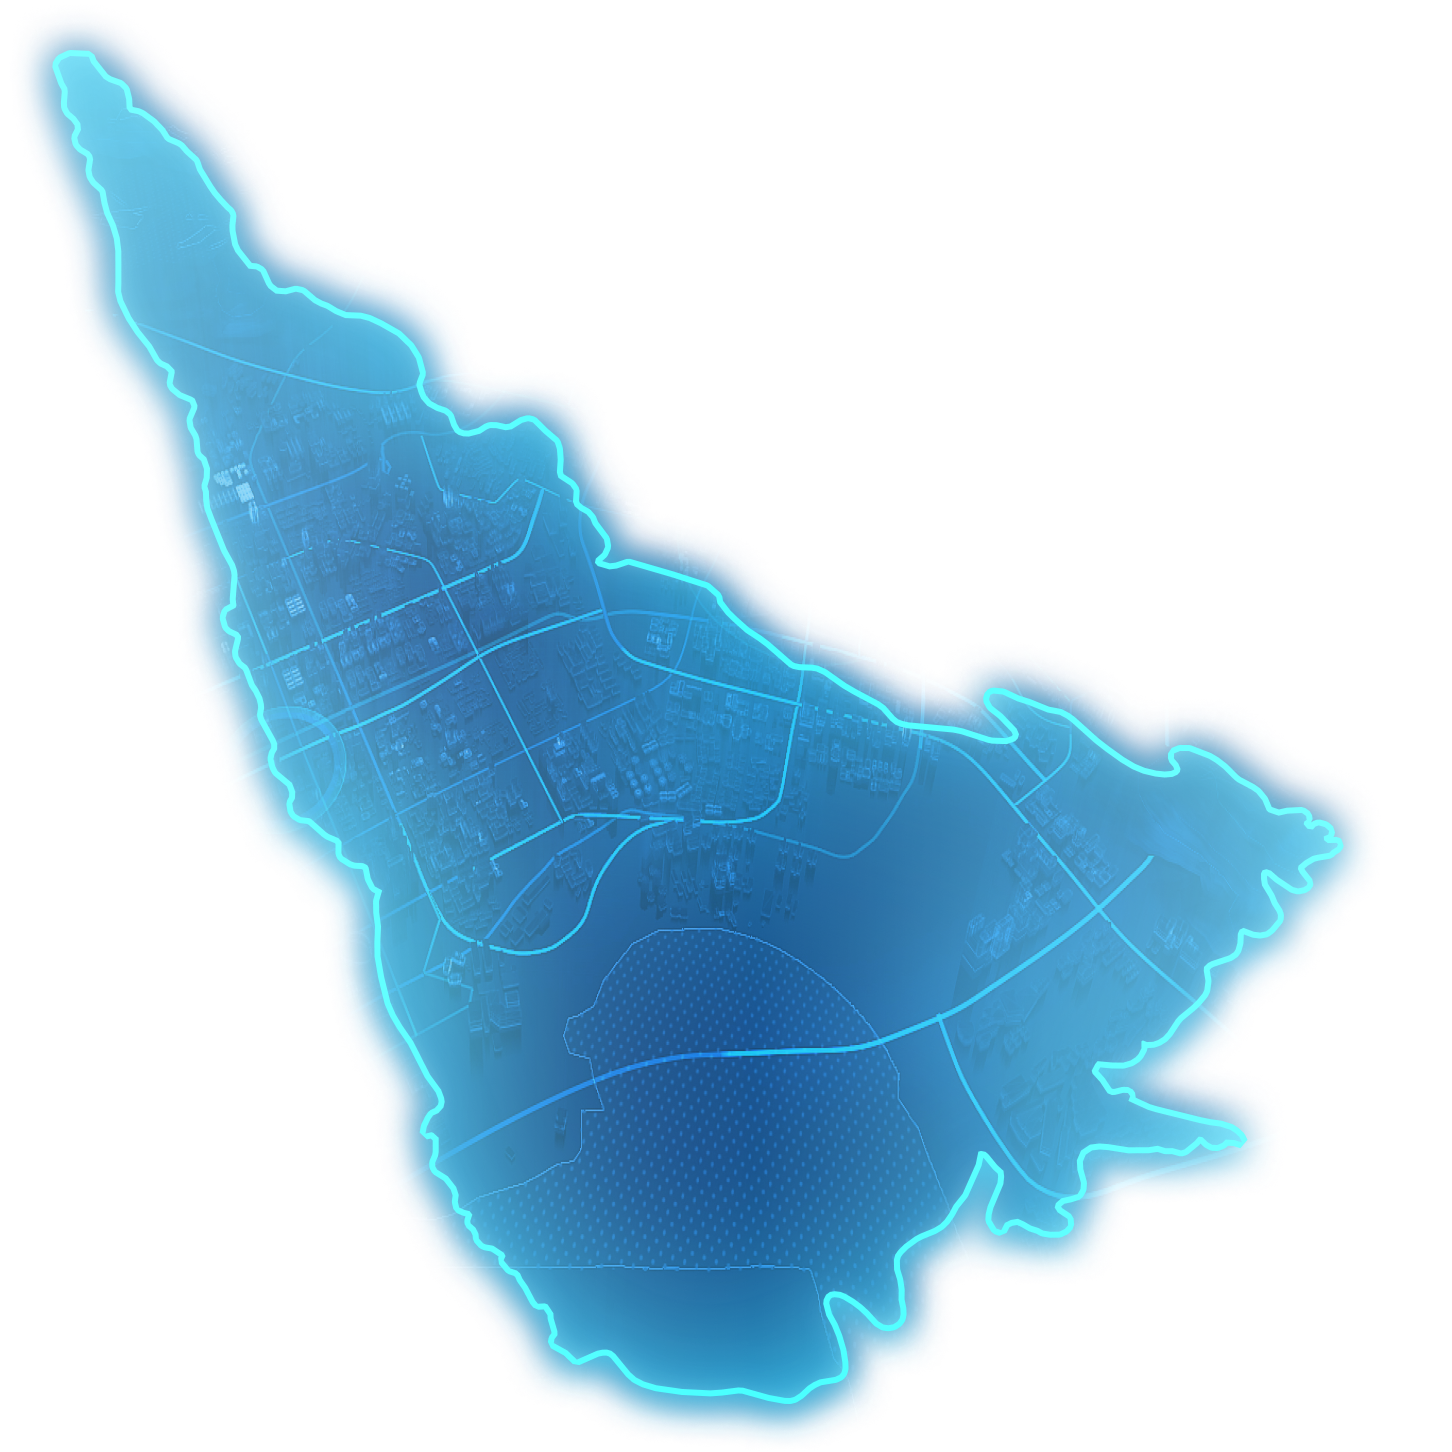
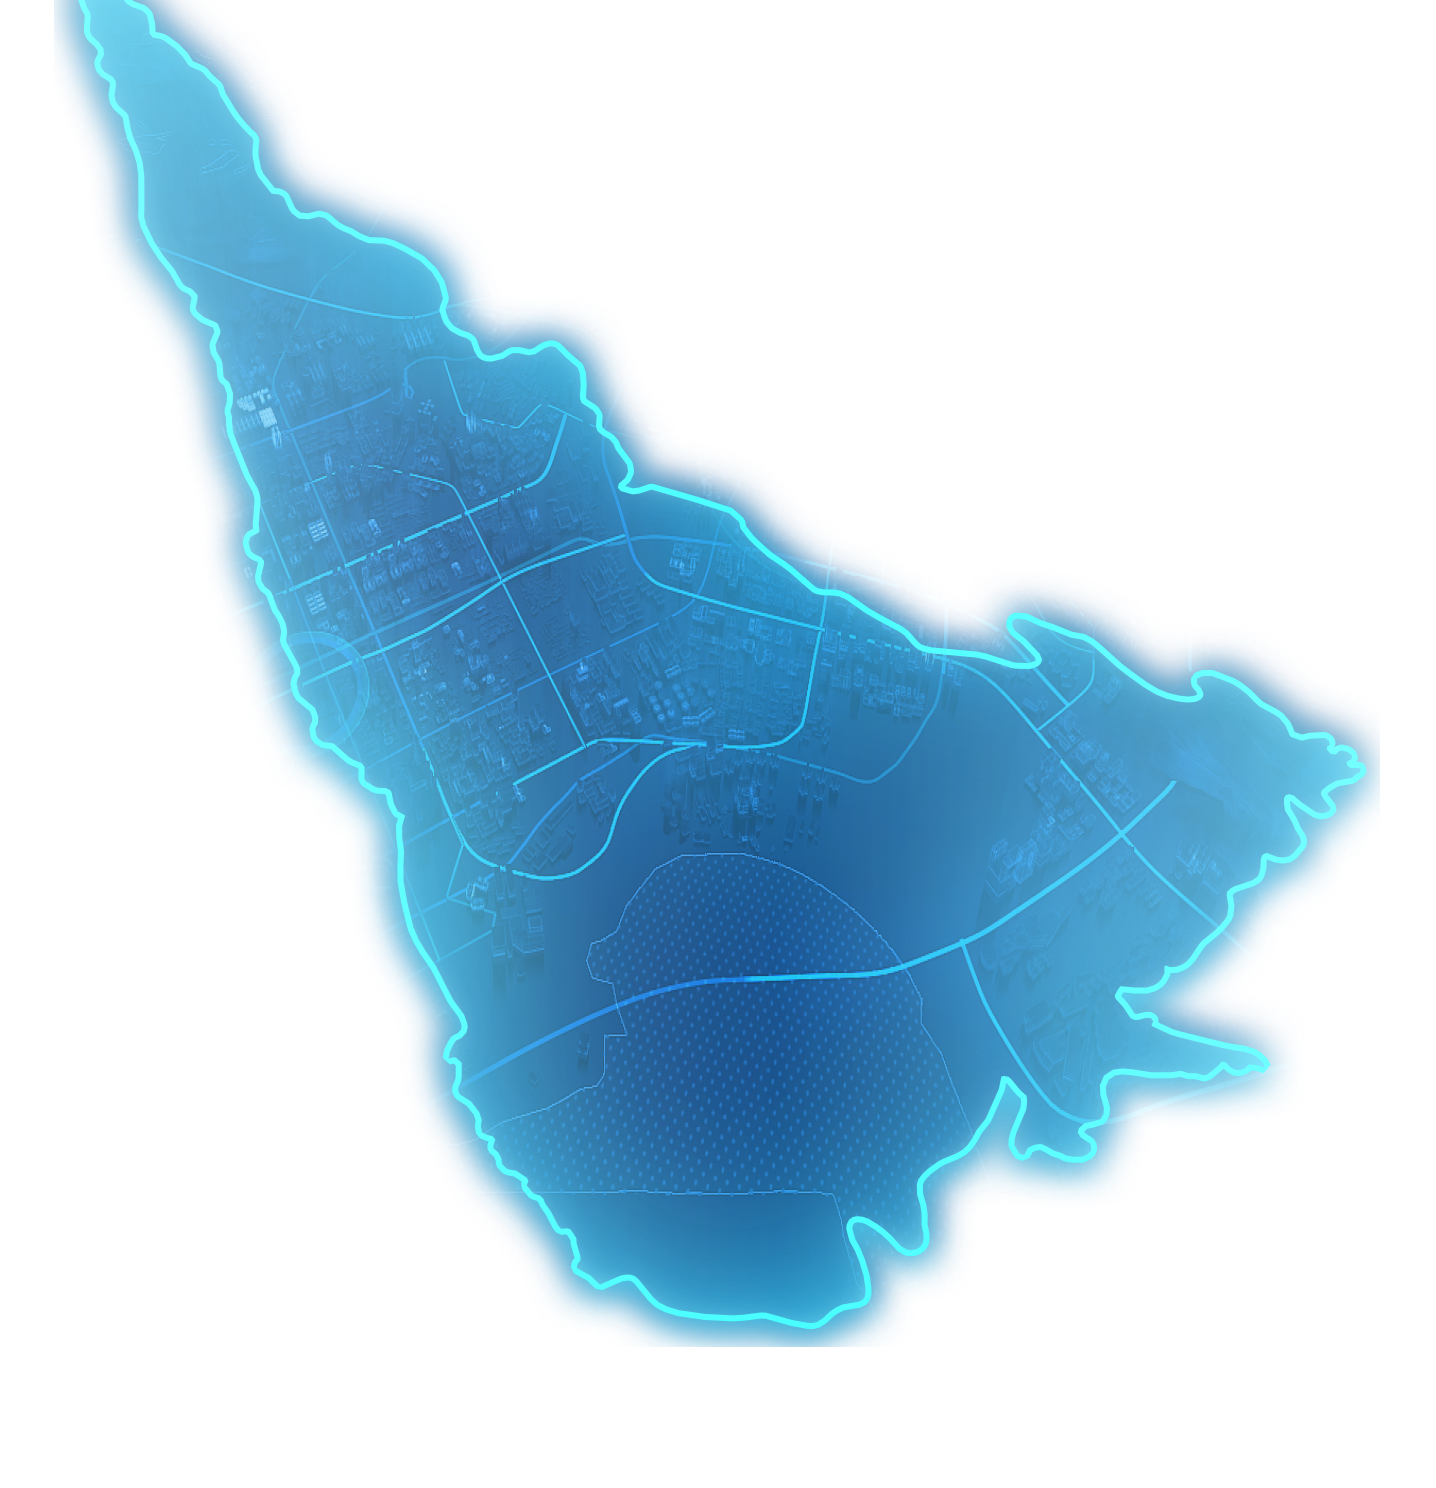
bate.1.0

Changed region(s): [[0.0, 0.0, 0.9805, 0.9917]]

diff --git a/src/components/center_chart.vue b/src/components/center_chart.vue
@@ -4,7 +4,7 @@ import * as echarts from "echarts";
 import mapjson from "../assets/map.json";
 import mapJsonSvg from "../assets/wenjiang.svg";
 import mapsvg from "../assets/mapsvg.svg";
-import graphicsvg from "../assets/graphic.svg";
+import graphicsvg from "../assets/map.png";
 import axios from "axios";
 
 onMounted(() => {
@@ -19,7 +19,7 @@ onMounted(() => {
     const ellipsePath = "M50,50 m-40,0 a40,30 0 1,0 80,0 a40,30 0 1,0 -80,0";
 
     const markerData = [
-      { name: "星河world科创城3", value: [103.836776, 30.697996] },
+      { name: "星河world科创城3", value: [103.695006, 30.887757] },
       { name: "光华公园站", value: [103.87, 30.71] },
       { name: "南熏大道", value: [103.85, 30.69] },
       { name: "天欣驾校西门训练基地", value: [103.91, 30.67] },
@@ -28,6 +28,7 @@ onMounted(() => {
     ];
     let options = {
       geo: {
+        id: "geo",
         map: "wenjiang",
         region: [],
         select: {
@@ -37,14 +38,30 @@ onMounted(() => {
         roam: true,
         itemStyle: {
           normal: {
-            areaColor: "transparent", // 设置默认区域颜色
-            borderColor: "#000", // 设置默认边框颜色
-            borderWidth: 1, // 设置默认边框宽度
+            borderColor: "#00ffff", // 亮蓝色边框
+            borderWidth: 3, // 边框宽度
+            shadowBlur: 20, // 虚影范围
+            shadowColor: "rgba(0, 255, 255, 0.8)", // 蓝色光晕
+            shadowOffsetX: 0,
+            shadowOffsetY: 0,
+            areaColor: {
+              type: "image",
+              image: graphicsvg,
+              repeat: "repeat",
+            },
           },
           emphasis: {
-            areaColor: "transparent", // 设置 hover 区域颜色，与默认颜色相同
-            borderColor: "#000", // 设置 hover 边框颜色，与默认颜色相同
-            borderWidth: 1, // 设置 hover 边框宽度，与默认宽度相同
+            borderColor: "#00ffff", // 亮蓝色边框
+            borderWidth: 3, // 边框宽度
+            shadowBlur: 20, // 虚影范围
+            shadowColor: "rgba(0, 255, 255, 0.8)", // 蓝色光晕
+            shadowOffsetX: 0,
+            shadowOffsetY: 0,
+            areaColor: {
+              type: "image",
+              image: graphicsvg,
+              repeat: "repeat",
+            },
           },
         },
         label: {
@@ -59,24 +76,6 @@ onMounted(() => {
       tooltip: {
         show: false,
       },
-      graphic: [
-        {
-          scale: [0.9, 0.9],
-          type: "image",
-          id: "img1",
-          style: {
-            image: graphicsvg,
-            width: 740,
-            height: 740,
-          },
-          rotation: -0,
-          origin: [370, 370],
-          // 用 geo 坐标定位
-          // position: [90, 0], // 初始位置，必须设为 [0,0]，否则 geoCoord 不生效
-          // position: [0, 0], // ✅ 必须显式设为 [0, 0]
-          geoCoord: [103.836776, 30.697996], // 你自己替换成你想放的位置
-        },
-      ],
       series: [
         //=====1.静态椭圆形黄点=====
         {
@@ -187,21 +186,6 @@ onMounted(() => {
     setTimeout(() => {
       setDefaultHighlight();
       createCustomTooltips();
-      const pixel = myChart.convertToPixel({ geoIndex: 0 }, [103.836776, 30.697996]);
-      const zoom = myChart.getModel().getComponent("geo").get("zoom");
-      initPixel = [320 / pixel[0], 500 / pixel[1]];
-      let new_pixel = [
-        pixel[0] - pixel[0] * initPixel[0],
-        pixel[1] - pixel[1] * initPixel[1],
-      ];
-      console.log(new_pixel);
-      myChart.setOption({
-        graphic: {
-          id: "img1",
-          position: new_pixel,
-          scale: [zoom * 0.9, zoom * 0.9],
-        },
-      });
     }, 0);
 
     // 鼠标交互
@@ -226,26 +210,10 @@ onMounted(() => {
         createCustomTooltips();
       }
     });
-
     // 地图缩放或拖动时更新 tooltip 位置
-    myChart.on("georoam", () => {
+    myChart.on("georoam", (e) => {
       clearAllHighlight();
       createCustomTooltips();
-      let geo = myChart.getModel().getComponent("geo");
-      const pixel = myChart.convertToPixel({ geoIndex: 0 }, [103.836776, 30.697996]);
-
-      const zoom = geo.get("zoom");
-      let new_pixel = [
-        pixel[0] - pixel[0] * initPixel[0],
-        pixel[1] - pixel[1] * initPixel[1],
-      ];
-      myChart.setOption({
-        graphic: {
-          id: "img1",
-          position: new_pixel,
-          scale: [zoom * 0.9, zoom * 0.9], // 根据缩放倍数动态设置 scale
-        },
-      });
     });
   });
 });
